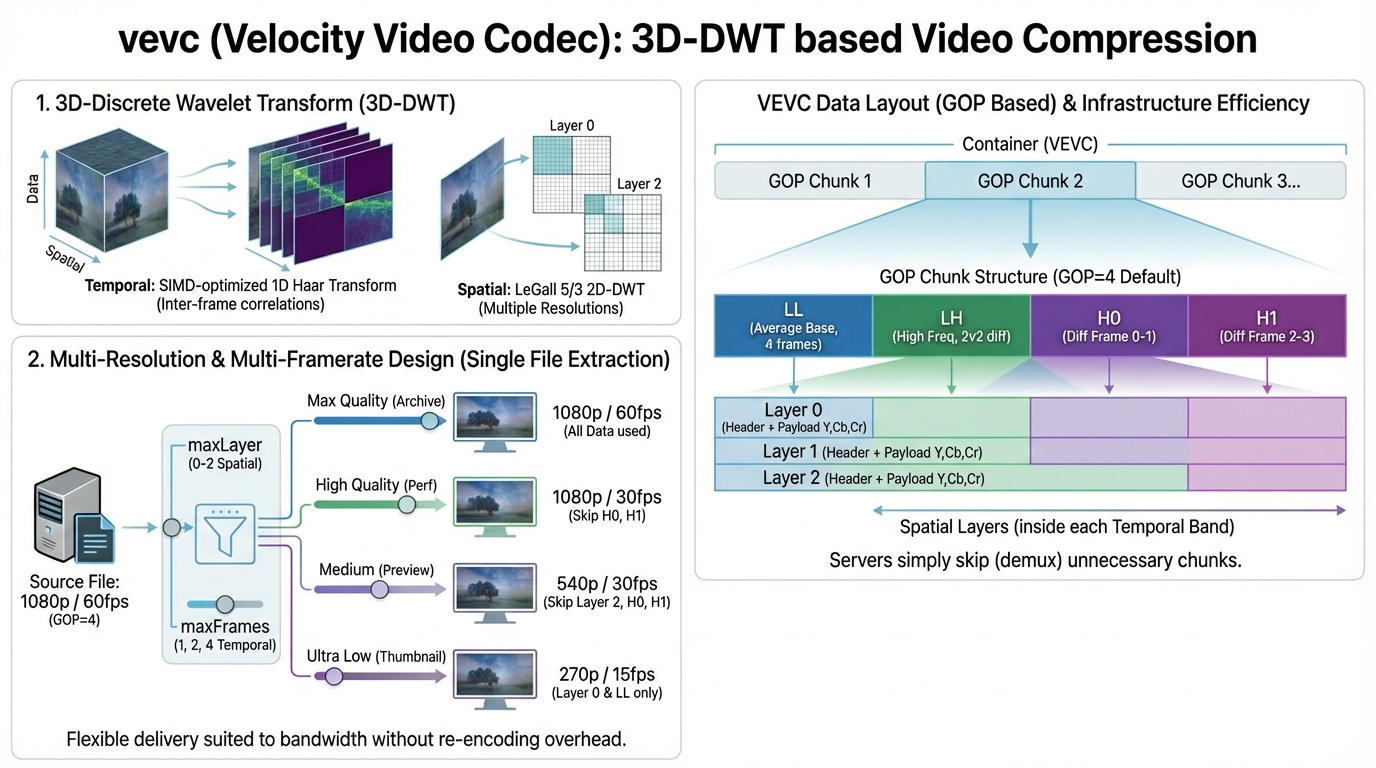
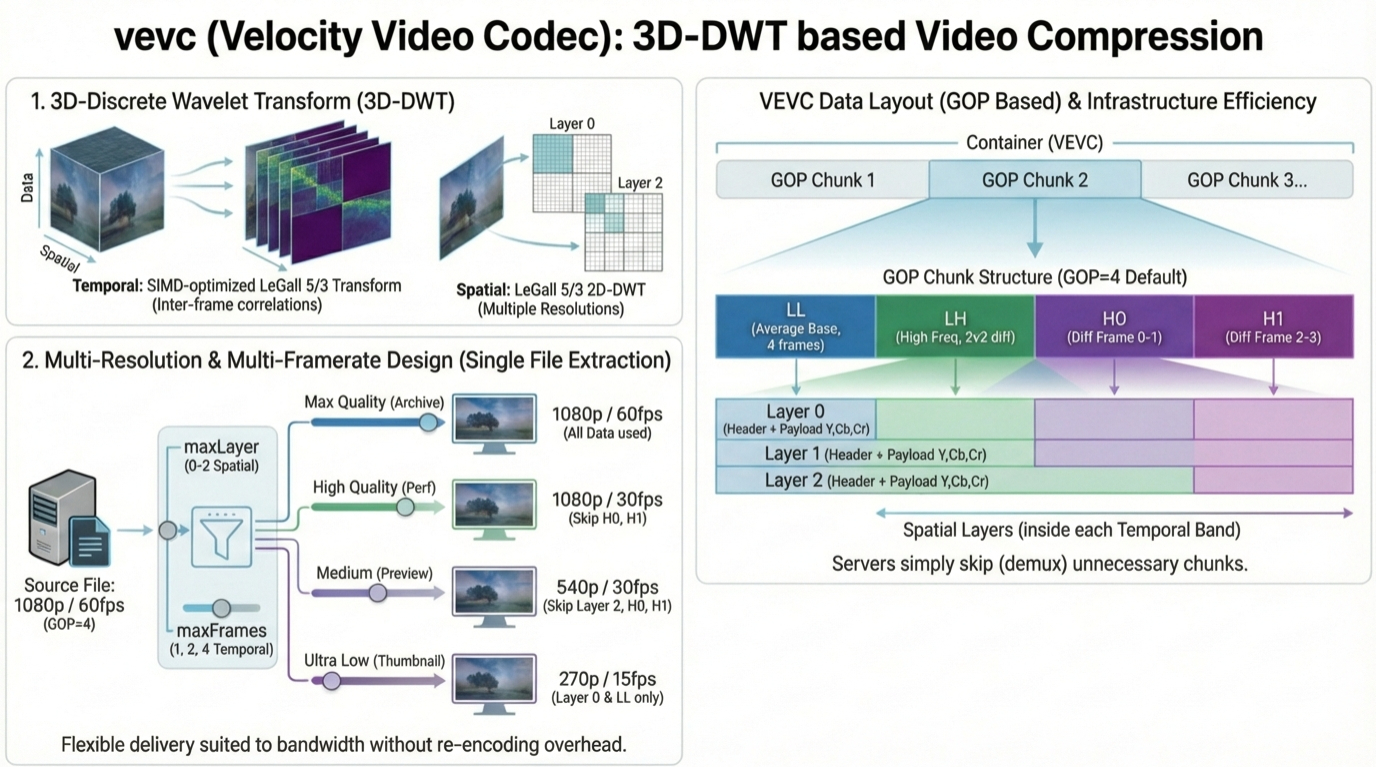
haar to lift53

diff --git a/Sources/vevc/TemporalDWT.swift b/Sources/vevc/TemporalDWT.swift
@@ -1,65 +1,146 @@
-private func haar(
+private func lift53TemporalLevel1(
     f0: UnsafePointer<Int16>,
     f1: UnsafePointer<Int16>,
+    f2: UnsafePointer<Int16>,
+    f3: UnsafePointer<Int16>,
     count: Int,
-    outL: UnsafeMutablePointer<Int16>,
-    outH: UnsafeMutablePointer<Int16>
+    outL0: UnsafeMutablePointer<Int16>,
+    outL1: UnsafeMutablePointer<Int16>,
+    outH0: UnsafeMutablePointer<Int16>,
+    outH1: UnsafeMutablePointer<Int16>
 ) {
     assert(count % 8 == 0, "count must be a multiple of 8")
     var i = 0
-    
     while i < count {
         let v0 = SIMD8<Int16>(
-            f0[i], f0[i+1], f0[i+2], f0[i+3],
-            f0[i+4], f0[i+5], f0[i+6], f0[i+7]
+            f0[i], f0[i+1], f0[i+2], f0[i+3], f0[i+4], f0[i+5], f0[i+6], f0[i+7]
         )
         let v1 = SIMD8<Int16>(
-            f1[i], f1[i+1], f1[i+2], f1[i+3],
-            f1[i+4], f1[i+5], f1[i+6], f1[i+7]
+            f1[i], f1[i+1], f1[i+2], f1[i+3], f1[i+4], f1[i+5], f1[i+6], f1[i+7]
+        )
+        let v2 = SIMD8<Int16>(
+            f2[i], f2[i+1], f2[i+2], f2[i+3], f2[i+4], f2[i+5], f2[i+6], f2[i+7]
+        )
+        let v3 = SIMD8<Int16>(
+            f3[i], f3[i+1], f3[i+2], f3[i+3], f3[i+4], f3[i+5], f3[i+6], f3[i+7]
         )
         
-        // H (High): f0 - f1
-        let h = v0 &- v1
+        // Predict (High)
+        let h0 = v1 &- ((v0 &+ v2) &>> 1)
+        let h1 = v3 &- v2
         
-        // L (Low): f0 - (h / 2)
-        // using lifting step to ensure perfect reconstruction
-        let l = v0 &- (h &>> 1)
+        // Update (Low)
+        let l0 = v0 &+ ((h0 &+ h0 &+ 2) &>> 2)
+        let l1 = v2 &+ ((h0 &+ h1 &+ 2) &>> 2)
         
-        UnsafeMutableRawPointer(outL.advanced(by: i)).storeBytes(of: l, as: SIMD8<Int16>.self)
-        UnsafeMutableRawPointer(outH.advanced(by: i)).storeBytes(of: h, as: SIMD8<Int16>.self)
+        UnsafeMutableRawPointer(outL0.advanced(by: i)).storeBytes(of: l0, as: SIMD8<Int16>.self)
+        UnsafeMutableRawPointer(outL1.advanced(by: i)).storeBytes(of: l1, as: SIMD8<Int16>.self)
+        UnsafeMutableRawPointer(outH0.advanced(by: i)).storeBytes(of: h0, as: SIMD8<Int16>.self)
+        UnsafeMutableRawPointer(outH1.advanced(by: i)).storeBytes(of: h1, as: SIMD8<Int16>.self)
         
         i += 8
     }
 }
 
-func invHaar(
-    inL: UnsafePointer<Int16>,
-    inH: UnsafePointer<Int16>,
+private func lift53TemporalLevel2(
+    l0: UnsafePointer<Int16>,
+    l1: UnsafePointer<Int16>,
     count: Int,
-    outF0: UnsafeMutablePointer<Int16>,
-    outF1: UnsafeMutablePointer<Int16>
+    outLL: UnsafeMutablePointer<Int16>,
+    outLH: UnsafeMutablePointer<Int16>
 ) {
     assert(count % 8 == 0, "count must be a multiple of 8")
     var i = 0
     while i < count {
-        let l = SIMD8<Int16>(
-            inL[i], inL[i+1], inL[i+2], inL[i+3],
-            inL[i+4], inL[i+5], inL[i+6], inL[i+7]
+        let v0 = SIMD8<Int16>(
+            l0[i], l0[i+1], l0[i+2], l0[i+3], l0[i+4], l0[i+5], l0[i+6], l0[i+7]
         )
-        let h = SIMD8<Int16>(
-            inH[i], inH[i+1], inH[i+2], inH[i+3],
-            inH[i+4], inH[i+5], inH[i+6], inH[i+7]
+        let v1 = SIMD8<Int16>(
+            l1[i], l1[i+1], l1[i+2], l1[i+3], l1[i+4], l1[i+5], l1[i+6], l1[i+7]
         )
         
-        // f0 = l + (h / 2)
-        // using lifting step to ensure perfect reconstruction
-        let f0 = l &+ (h &>> 1)
+        // Predict
+        let lh = v1 &- v0
         
-        // f1 = f0 - h
-        let f1 = f0 &- h
+        // Update
+        let ll = v0 &+ ((lh &+ lh &+ 2) &>> 2)
+        
+        UnsafeMutableRawPointer(outLL.advanced(by: i)).storeBytes(of: ll, as: SIMD8<Int16>.self)
+        UnsafeMutableRawPointer(outLH.advanced(by: i)).storeBytes(of: lh, as: SIMD8<Int16>.self)
+        
+        i += 8
+    }
+}
+
+private func invLift53TemporalLevel1(
+    inL0: UnsafePointer<Int16>,
+    inL1: UnsafePointer<Int16>,
+    inH0: UnsafePointer<Int16>,
+    inH1: UnsafePointer<Int16>,
+    count: Int,
+    outF0: UnsafeMutablePointer<Int16>,
+    outF1: UnsafeMutablePointer<Int16>,
+    outF2: UnsafeMutablePointer<Int16>,
+    outF3: UnsafeMutablePointer<Int16>
+) {
+    assert(count % 8 == 0, "count must be a multiple of 8")
+    var i = 0
+    while i < count {
+        let l0 = SIMD8<Int16>(
+            inL0[i], inL0[i+1], inL0[i+2], inL0[i+3], inL0[i+4], inL0[i+5], inL0[i+6], inL0[i+7]
+        )
+        let l1 = SIMD8<Int16>(
+            inL1[i], inL1[i+1], inL1[i+2], inL1[i+3], inL1[i+4], inL1[i+5], inL1[i+6], inL1[i+7]
+        )
+        let h0 = SIMD8<Int16>(
+            inH0[i], inH0[i+1], inH0[i+2], inH0[i+3], inH0[i+4], inH0[i+5], inH0[i+6], inH0[i+7]
+        )
+        let h1 = SIMD8<Int16>(
+            inH1[i], inH1[i+1], inH1[i+2], inH1[i+3], inH1[i+4], inH1[i+5], inH1[i+6], inH1[i+7]
+        )
+        
+        // Inv Update
+        let f0 = l0 &- ((h0 &+ h0 &+ 2) &>> 2)
+        let f2 = l1 &- ((h0 &+ h1 &+ 2) &>> 2)
+        
+        // Inv Predict
+        let f1 = h0 &+ ((f0 &+ f2) &>> 1)
+        let f3 = h1 &+ f2
         
         UnsafeMutableRawPointer(outF0.advanced(by: i)).storeBytes(of: f0, as: SIMD8<Int16>.self)
         UnsafeMutableRawPointer(outF1.advanced(by: i)).storeBytes(of: f1, as: SIMD8<Int16>.self)
+        UnsafeMutableRawPointer(outF2.advanced(by: i)).storeBytes(of: f2, as: SIMD8<Int16>.self)
+        UnsafeMutableRawPointer(outF3.advanced(by: i)).storeBytes(of: f3, as: SIMD8<Int16>.self)
+        
+        i += 8
+    }
+}
+
+private func invLift53TemporalLevel2(
+    inLL: UnsafePointer<Int16>,
+    inLH: UnsafePointer<Int16>,
+    count: Int,
+    outL0: UnsafeMutablePointer<Int16>,
+    outL1: UnsafeMutablePointer<Int16>
+) {
+    assert(count % 8 == 0, "count must be a multiple of 8")
+    var i = 0
+    while i < count {
+        let ll = SIMD8<Int16>(
+            inLL[i], inLL[i+1], inLL[i+2], inLL[i+3], inLL[i+4], inLL[i+5], inLL[i+6], inLL[i+7]
+        )
+        let lh = SIMD8<Int16>(
+            inLH[i], inLH[i+1], inLH[i+2], inLH[i+3], inLH[i+4], inLH[i+5], inLH[i+6], inLH[i+7]
+        )
+        
+        // Inv Update
+        let l0 = ll &- ((lh &+ lh &+ 2) &>> 2)
+        
+        // Inv Predict
+        let l1 = lh &+ l0
+        
+        UnsafeMutableRawPointer(outL0.advanced(by: i)).storeBytes(of: l0, as: SIMD8<Int16>.self)
+        UnsafeMutableRawPointer(outL1.advanced(by: i)).storeBytes(of: l1, as: SIMD8<Int16>.self)
         
         i += 8
     }
@@ -79,15 +160,28 @@ func temporalDWT(
     tempL1: UnsafeMutablePointer<Int16>
 ) {
     // --- Level 1 ---
-    // gen: L0, H0
-    haar(f0: f0, f1: f1, count: count, outL: tempL0, outH: outH0)
-    
-    // gen: L1, H1
-    haar(f0: f2, f1: f3, count: count, outL: tempL1, outH: outH1)
+    // f0, f1, f2, f3 -> L0, L1, H0, H1
+    lift53TemporalLevel1(
+        f0: f0,
+        f1: f1,
+        f2: f2,
+        f3: f3,
+        count: count,
+        outL0: tempL0,
+        outL1: tempL1,
+        outH0: outH0,
+        outH1: outH1
+    )
     
     // --- Level 2 ---
-    // L0,L1 -> LL, LH
-    haar(f0: tempL0, f1: tempL1, count: count, outL: outLL, outH: outLH)
+    // L0, L1 -> LL, LH
+    lift53TemporalLevel2(
+        l0: tempL0,
+        l1: tempL1,
+        count: count,
+        outLL: outLL,
+        outLH: outLH
+    )
 }
 
 func invTemporalDWT(
@@ -105,12 +199,25 @@ func invTemporalDWT(
 ) {
     // --- inv Level 2 ---
     // LL, LH -> L0, L1
-    invHaar(inL: inLL, inH: inLH, count: count, outF0: tempL0, outF1: tempL1)
+    invLift53TemporalLevel2(
+        inLL: inLL,
+        inLH: inLH,
+        count: count,
+        outL0: tempL0,
+        outL1: tempL1
+    )
     
     // --- inv Level 1 ---
-    // L0, H0 -> F0, F1
-    invHaar(inL: tempL0, inH: inH0, count: count, outF0: outF0, outF1: outF1)
-    
-    // L1, H1 -> F2, F3
-    invHaar(inL: tempL1, inH: inH1, count: count, outF0: outF2, outF1: outF3)
+    // L0, L1, H0, H1 -> F0, F1, F2, F3
+    invLift53TemporalLevel1(
+        inL0: tempL0,
+        inL1: tempL1,
+        inH0: inH0,
+        inH1: inH1,
+        count: count,
+        outF0: outF0,
+        outF1: outF1,
+        outF2: outF2,
+        outF3: outF3
+    )
 }

diff --git a/Sources/vevc/Encode.swift b/Sources/vevc/Encode.swift
@@ -1,6 +1,6 @@
 // MARK: - Encode
 
-private let k: UInt8 = 1
+private let k: UInt8 = 4
 
 @inline(__always)
 func toUint16(_ n: Int16) -> UInt16 {
@@ -49,8 +49,6 @@ func appendUInt32BE(_ out: inout [UInt8], _ val: UInt32) {
 }
 
 // MARK: - Transform Functions
-
-// (RowFunc is defined elsewhere)
 
 @inline(__always)
 func transformLayer(bw: inout BitWriter, block: inout Block2D, size: Int, qt: QuantizationTable) throws -> Block2D {

diff --git a/Sources/vevc/Decode.swift b/Sources/vevc/Decode.swift
@@ -77,7 +77,7 @@ func applyInverseTemporal(ll: PlaneData420, lh: PlaneData420, h0: PlaneData420, 
 
 // MARK: - Decode Logic
 
-private let k: UInt8 = 1
+private let k: UInt8 = 4
 
 @inline(__always)
 func toInt16(_ u: UInt16) -> Int16 {

diff --git a/README.md b/README.md
@@ -13,7 +13,7 @@
 
 1. **3D-Discrete Wavelet Transform (3D-DWT)**
    - **Spatial**: LeGall 5/3 2D-DWT (Supports multiple resolutions via Layer 0, 1, 2) similar to `veif`.
-   - **Temporal**: 1D Haar Transform. It leverages the temporal correlation (similarities between consecutive frames) to increase compression efficiency.
+   - **Temporal**: 1D LeGall 5/3 Transform. It leverages the temporal correlation (similarities between consecutive frames) to increase compression efficiency.
 
 2. **Multi-Resolution & Multi-Framerate Design**
    - At decode time, you can extract specific spatial resolutions and framerates from a single file depending on your needs. This enables flexible, highly efficient video delivery suited to network bandwidth and device capabilities without storing multiple video files.
@@ -30,7 +30,7 @@
    | **Ultra Low (Thumbnail)** | `0` (Layer 0 only)    | `1` (LL only)           | 270p / 15fps             | Extract minimum data only      |
 
 3. **Acceleration via SIMD & Concurrency**
-   - The temporal Haar Transform is vectorized for high performance using SIMD (SIMD8).
+   - The temporal Lift53 Transform is vectorized for high performance using SIMD (SIMD8).
    - Spatial layer processing of frequencies and blocks is executed in parallel using Swift Concurrency (`async/await`, `TaskGroup`).
 
 ---
@@ -114,7 +114,7 @@ $ swift run -c release vevc-dec -i output.vevc -o .out/
 
 The core components of the implementation consist of the following files:
 
-- `TemporalDWT`: 1D Haar Transform and inverse transform logic across the temporal axis, fully utilizing SIMD.
+- `TemporalDWT`: 1D Lift53 Transform and inverse transform logic across the temporal axis, fully utilizing SIMD.
 - `Encode` / `Plane`: The encoding flow that uses plane data (`PlaneData`) to split and zero-pad the input images into GOP sizes, performing a two-stage encode: Temporal DWT -> Spatial DWT.
 
 ## License
